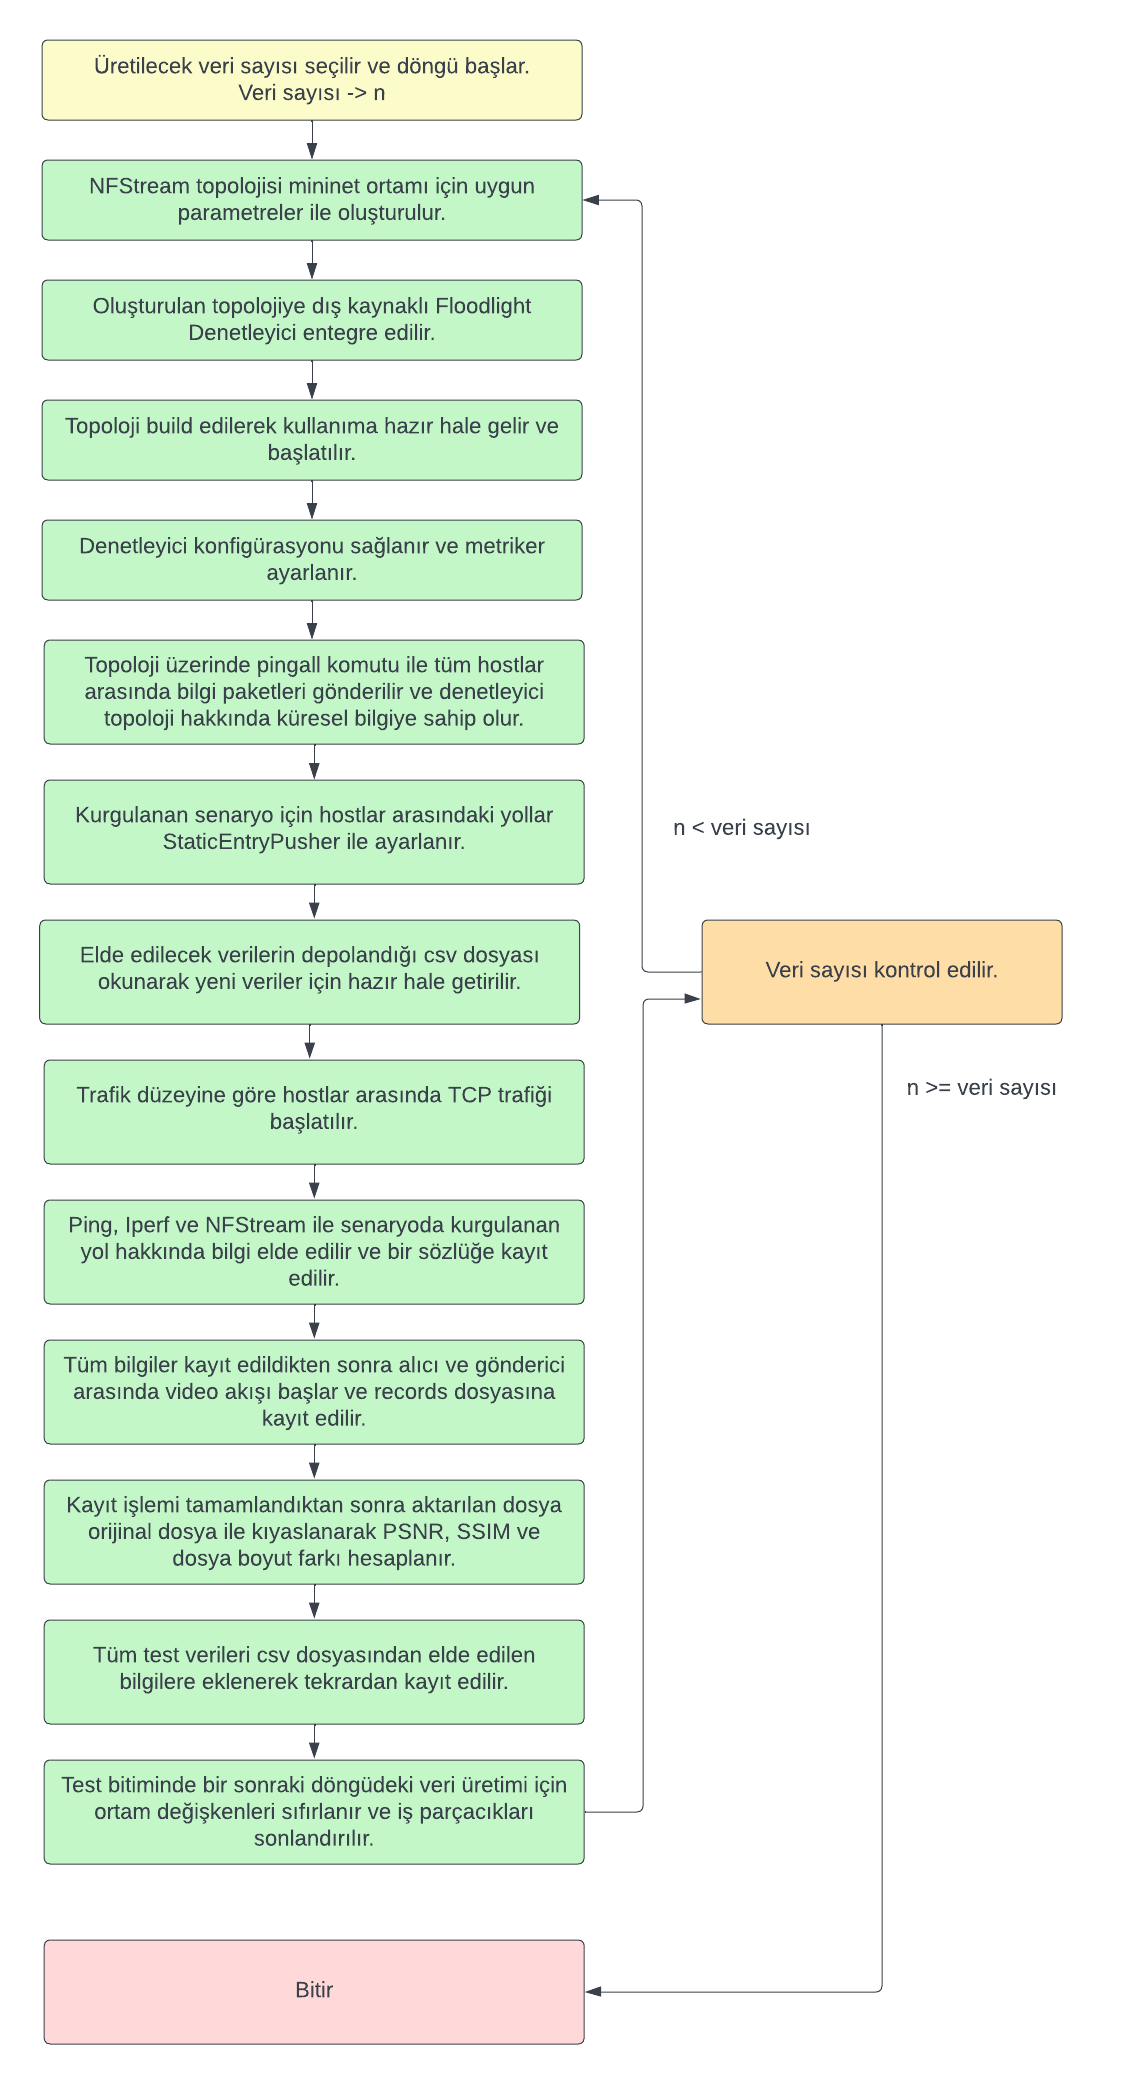
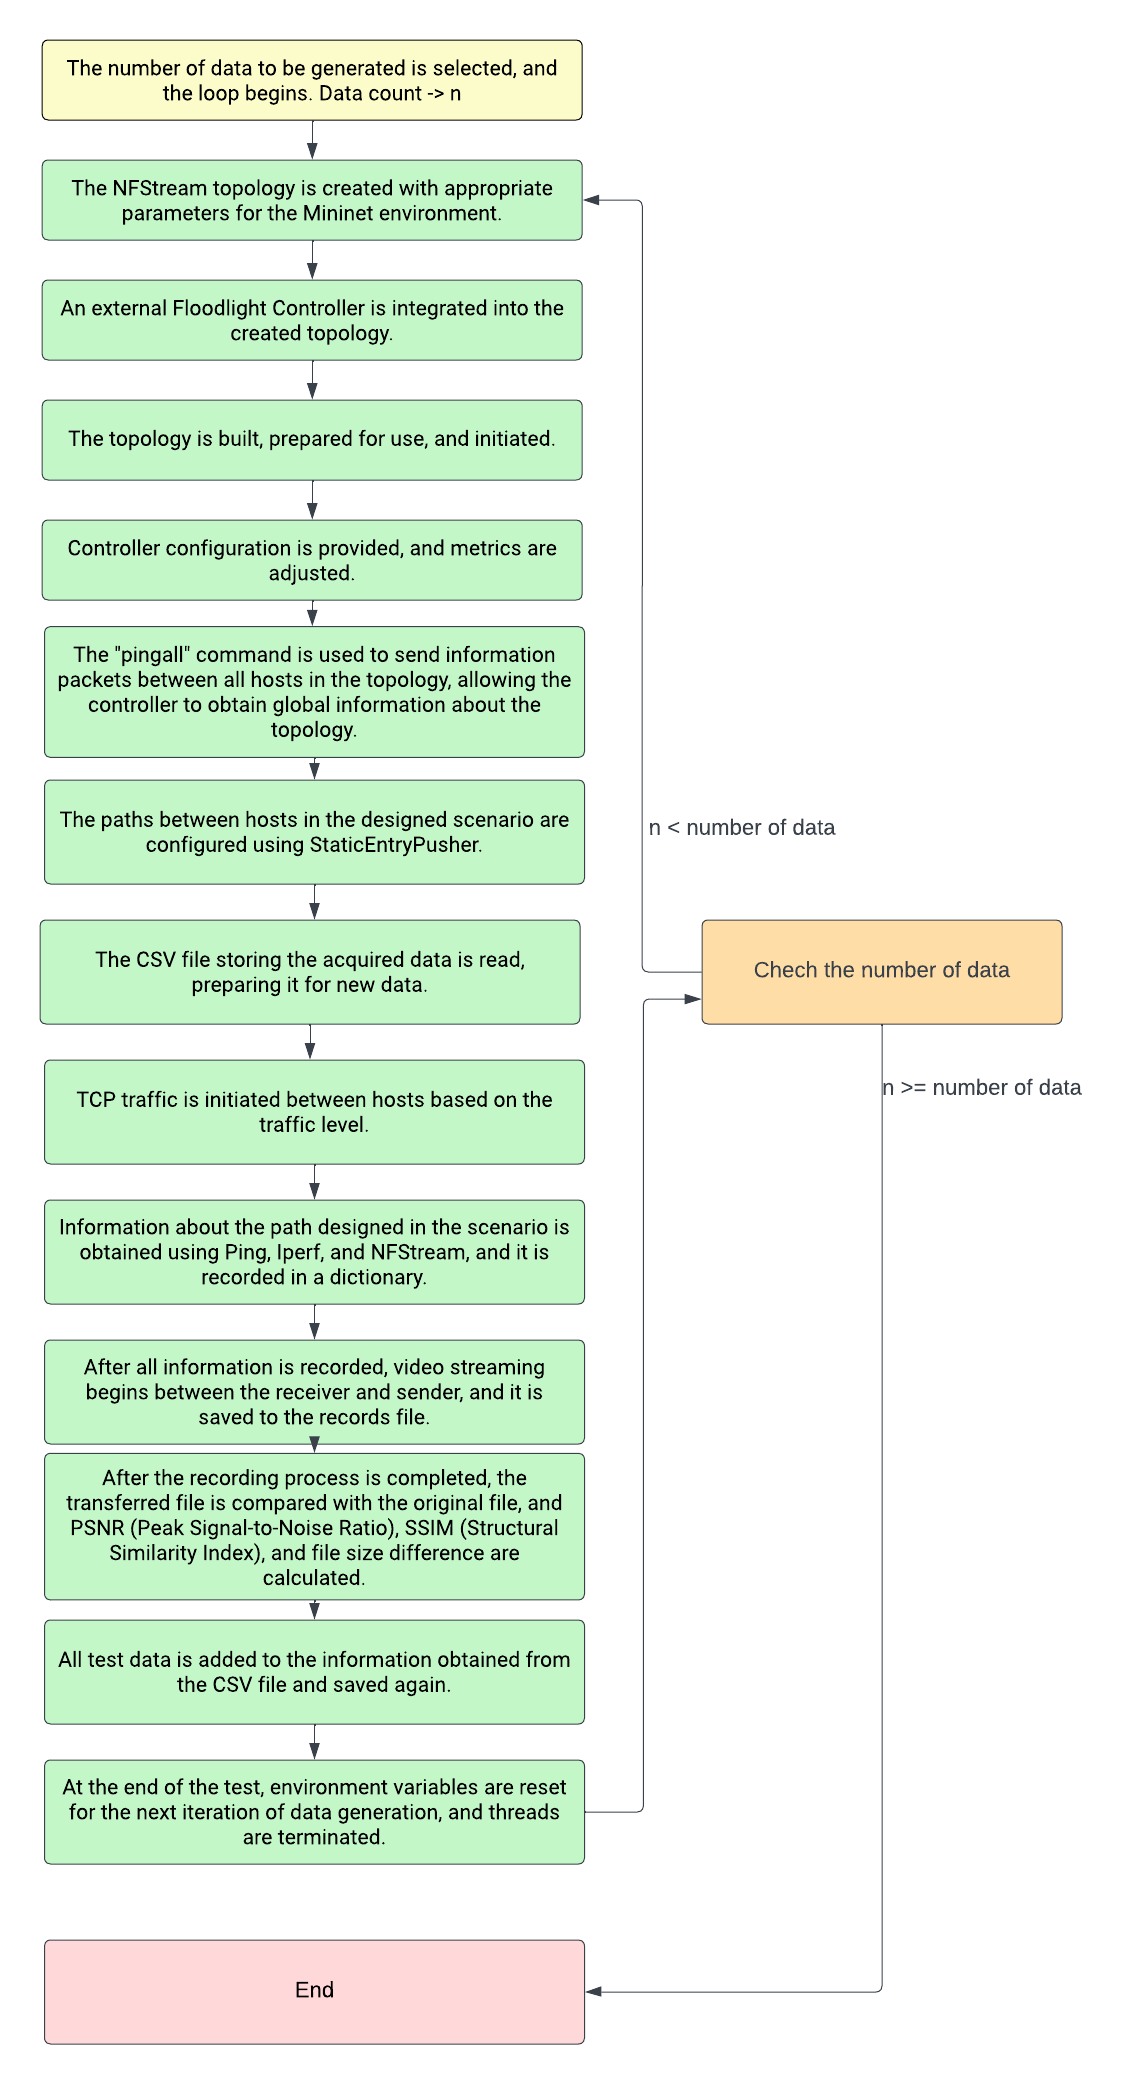
Update assets and readme

diff --git a/README.md b/README.md
@@ -53,13 +53,13 @@ NSFNET was specifically designed as a network for information exchange in scient
 
 The network consists of a total of 14 switches, 1 client, and 1 server. Additionally, there is one Floodlight SDN Controller that controls all the switches in the network. These network devices form the foundation for the constructed scenarios. When scenarios are devised, different clients are added to the network, and traffic is generated among them.</p>
 <div align="center">Scenario-1</div>
-<div style="align:center"><img src="./assets/CDN Diagram-senaryo-1.png"></img></div>
+<div style="align:center"><img src="./assets/CDN-Diagram-Scenario-1.png"></img></div>
 <p style="text-align:justify">In the scenario, two different traffic levels are established between the sender and receiver, with 4 clients assigned to switches 3 and 8 each. In the low-traffic environment, the selected 4 clients establish 2 connections among themselves, generating TCP traffic and utilizing approximately 30% of the bandwidth. In the high-traffic environment, 8 clients establish 4 connections among themselves, creating TCP traffic and utilizing approximately 90% of the bandwidth. After the traffic is generated, video transmission occurs between the main client and the server in the environment.</p>
 <div align="center">Scenario-2</div>
-<div style="align:center"><img src="./assets/CDN Diagram-senaryo-2.png"></img></div>
+<div style="align:center"><img src="./assets/CDN Diagram-Scenario-2.png"></img></div>
 <p style="text-align:justify">In the second scenario, 4 clients are assigned to switches 1 and 10 each. In the low-traffic environment, similar to the first scenario, the 4 clients establish 2 connections among themselves, generating TCP traffic and utilizing approximately 30% of the bandwidth. In the high-traffic environment, 8 clients establish 4 connections among themselves, creating TCP traffic and utilizing approximately 90% of the bandwidth. Video transmission is conducted in both cases to perform tests.</p>
 <div align="center">Scenario-3</div>
-<div style="align:center"><img src="./assets/CDN Diagram-senaryo-3.png"></img></div>
+<div style="align:center"><img src="./assets/CDN-Diagram-Scenario-3.png"></img></div>
 <p style="text-align:justify">In the third scenario, the number of hops is once again increased, and a path with a length of 5 hops is chosen. Video transmission between the client and the server follows the switches 0 - 2 - 5 - 13 - 10 - 9. Similar to the other scenarios, both low and high traffic are generated in this scenario, with the same number of clients and the same amount of bandwidth being used. Clients responsible for generating traffic are assigned to switches 2 and 10, following the same principles as in the previous scenarios.</p>
 
 ### Obtaining Paths Information
@@ -69,4 +69,4 @@ The network consists of a total of 14 switches, 1 client, and 1 server. Addition
 <div><a href="https://github.com/anildursunipek/AI-based-Routing-and-Traffic-Classification-in-SDN/blob/main/experiment/nsfnet_topology_scenario.py">Data Generator Example Code</a></div>
 
 ## Data Generator Code Logical Flow Schema
-<div style="align:center"><img src="./assets/"></img></div>
+<div style="align:center"><img src="./assets/data-generator-flow-schema.png"></img></div>
